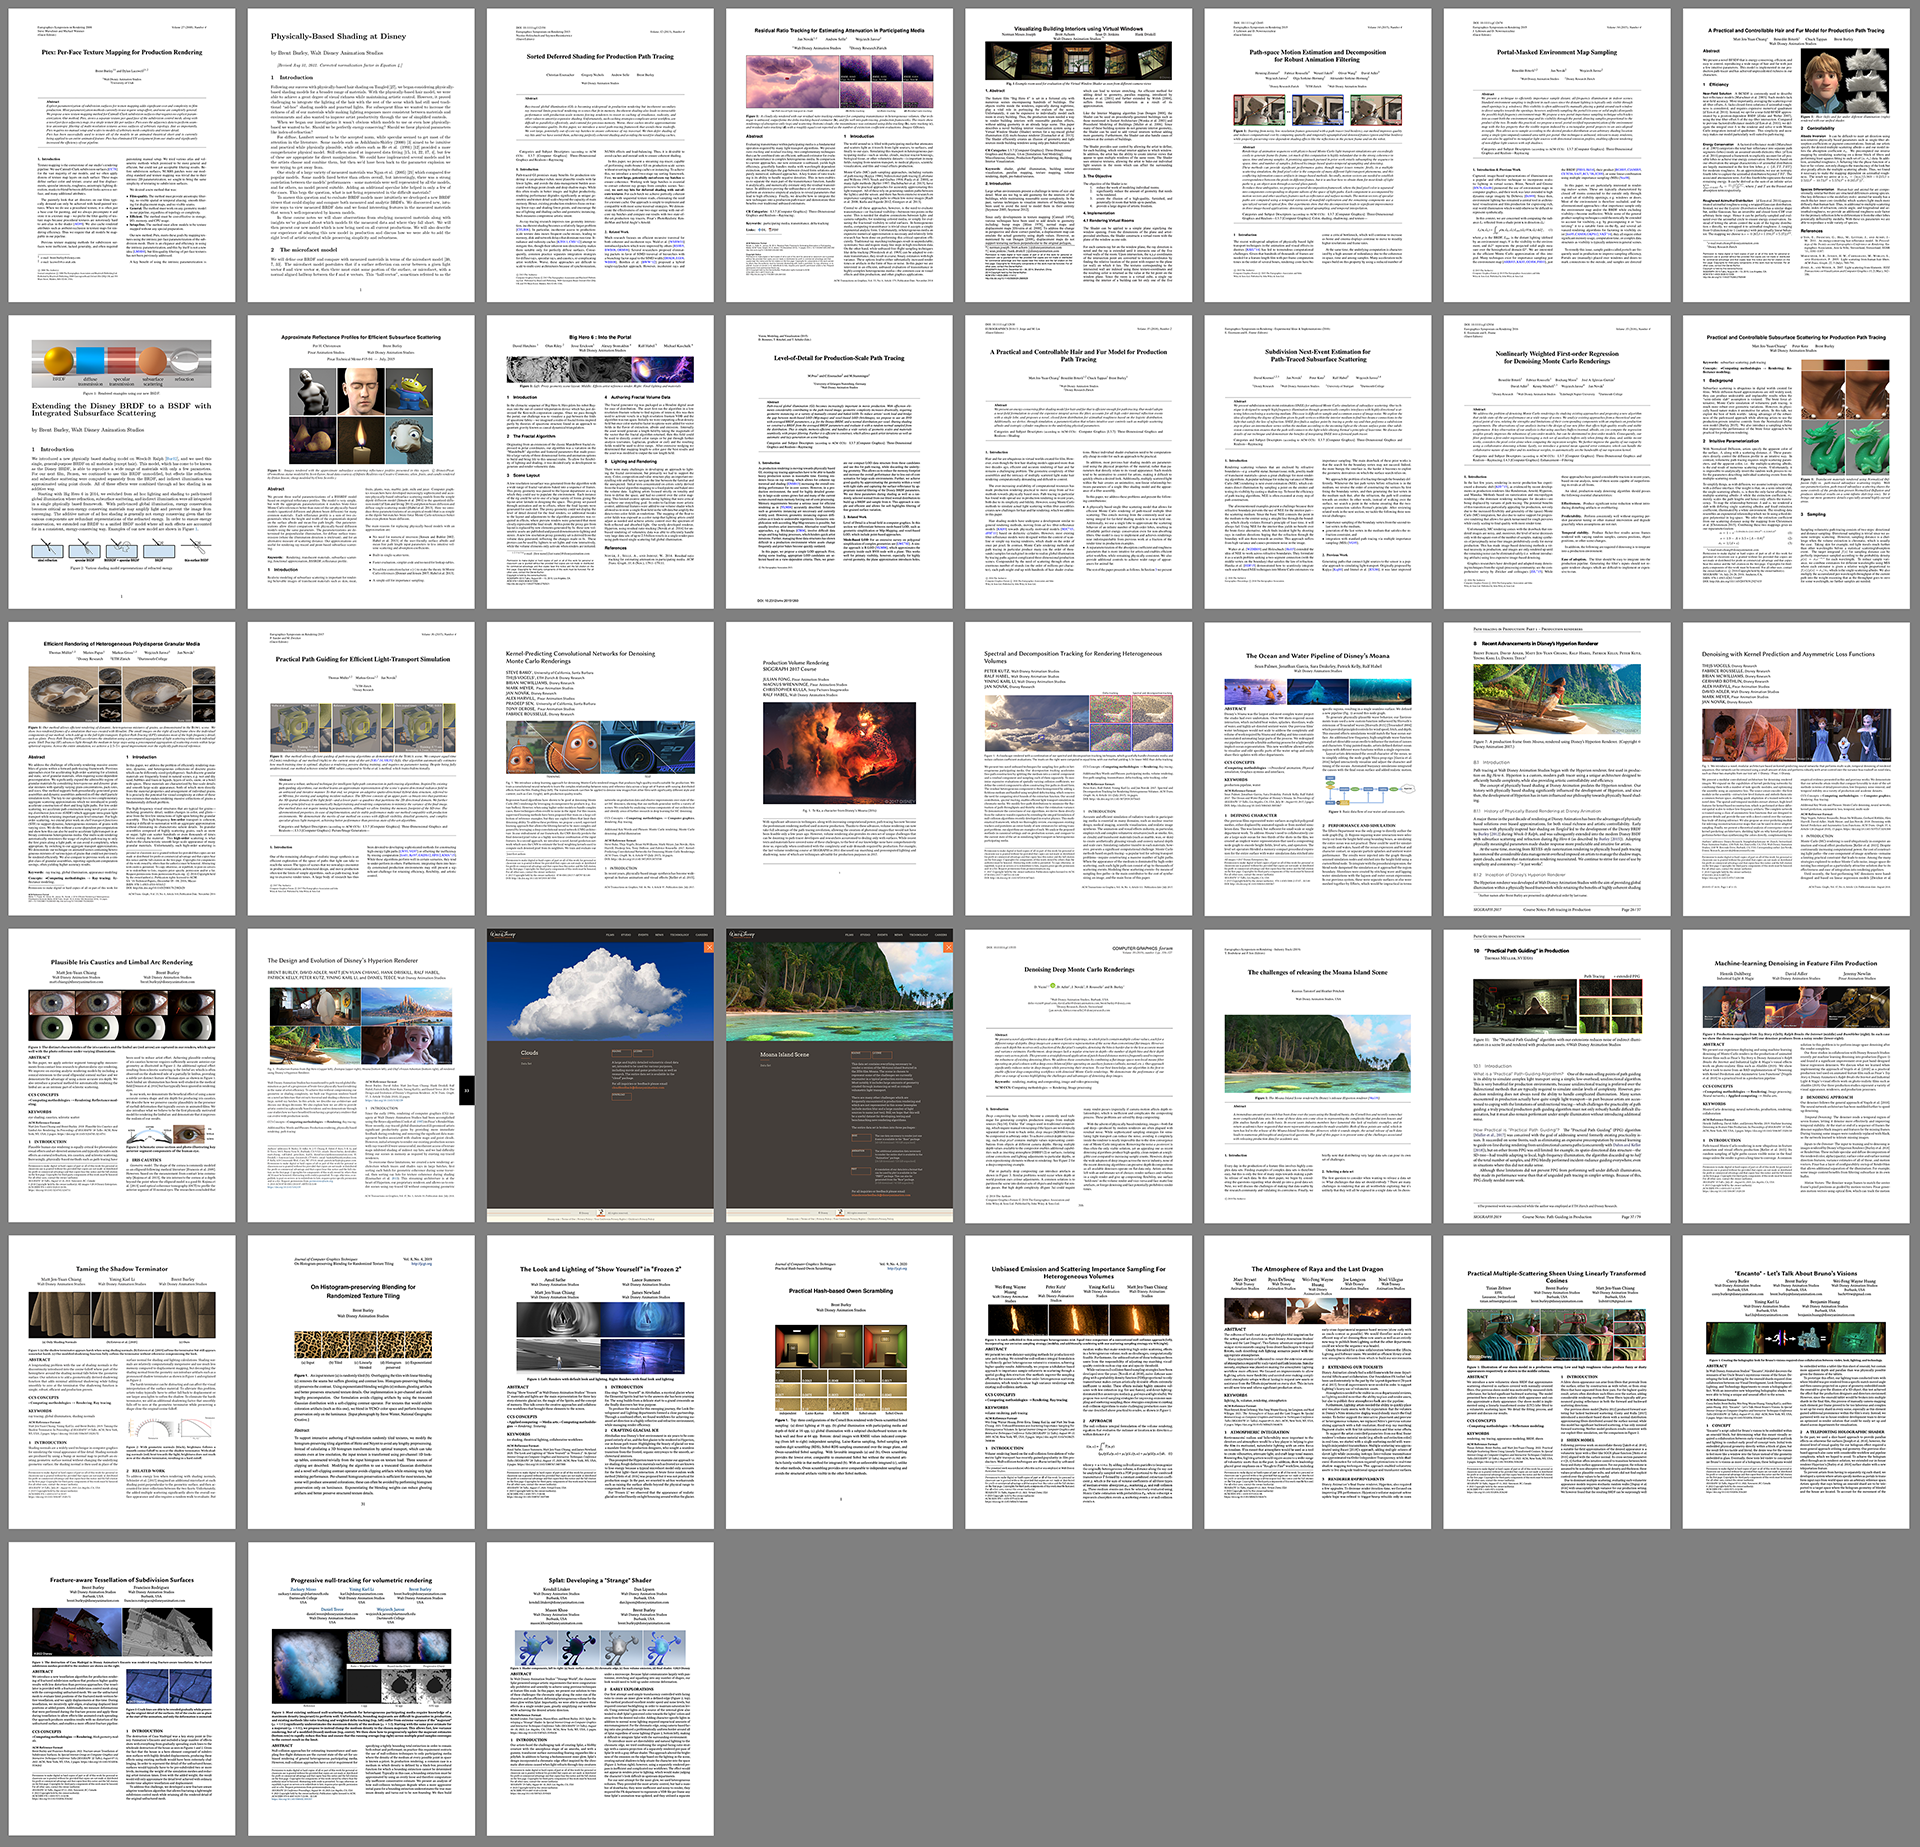
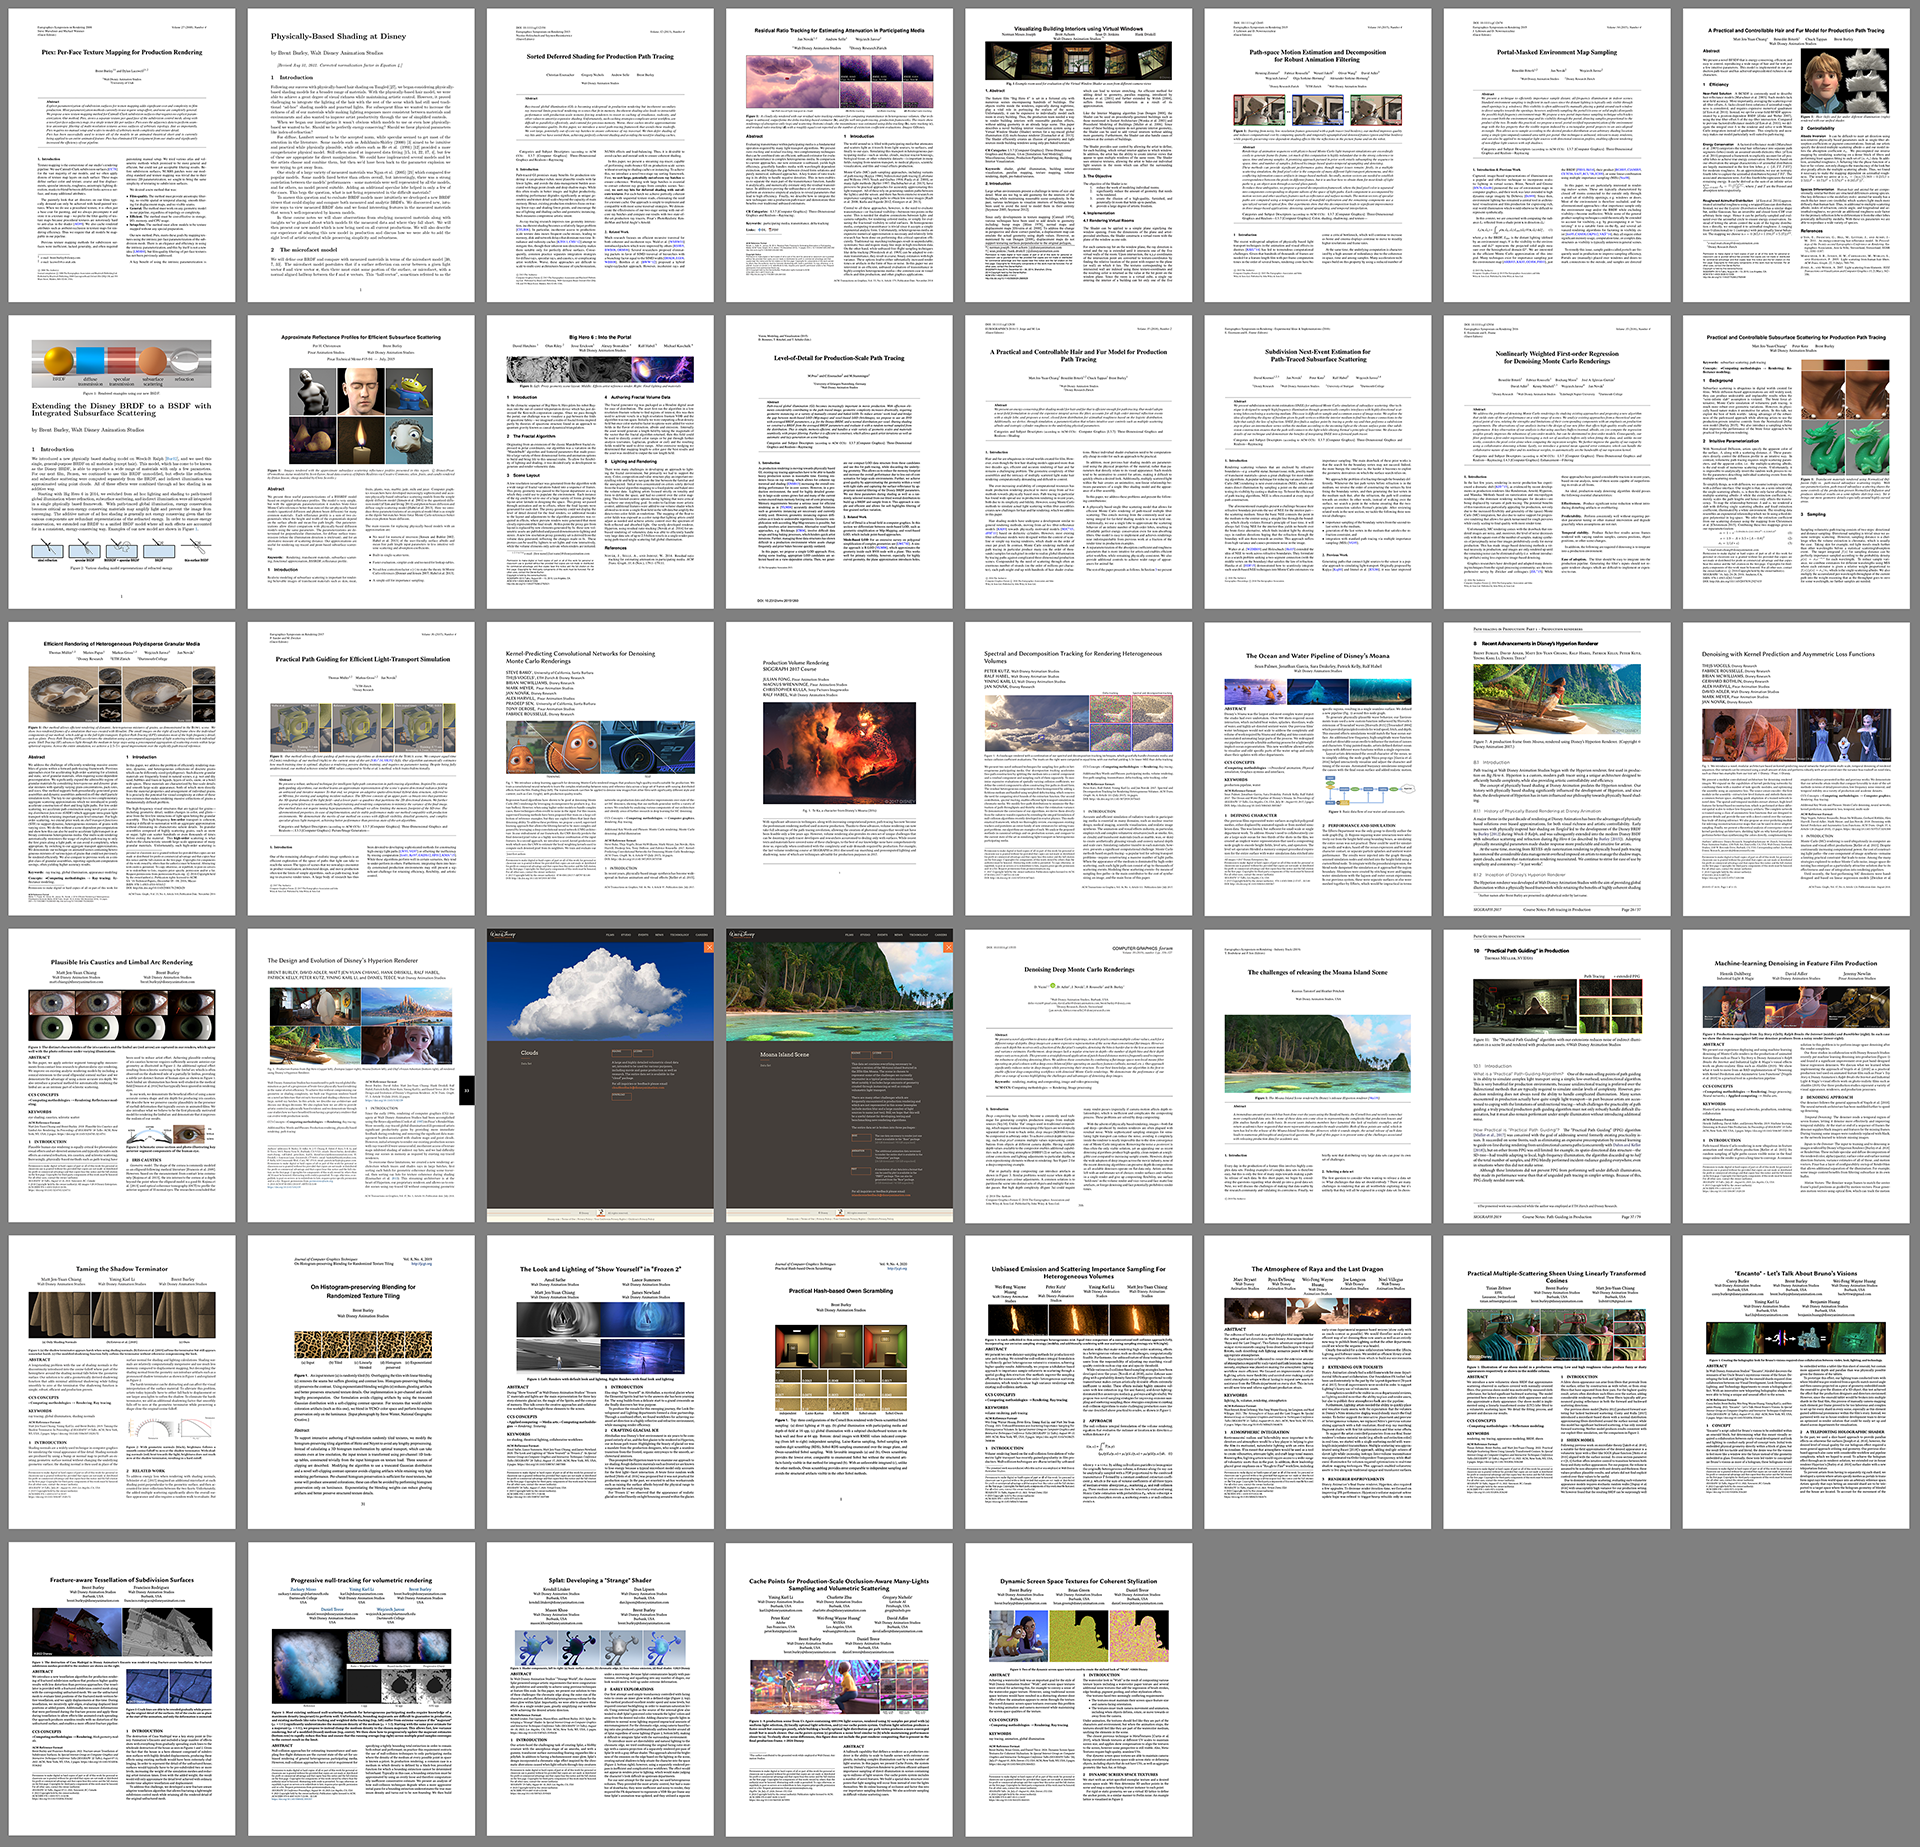
Update Hyperion papers post

Changed region(s): [[0.375, 0.8332, 0.625, 1.0]]

diff --git a/_posts/2019-07-30-hyperion-papers.md b/_posts/2019-07-30-hyperion-papers.md
@@ -18,7 +18,7 @@ Without a doubt, Hyperion, and by extension, our movies, would not be what they 
 Of course, we also collaborate closely with our sister rendering teams at [Pixar Animation Studios](https://www.pixar.com) and [Industrial Light & Magic](https://www.ilm.com) as well, and there are numerous examples where collaboration between all of these teams has advanced the state of the art in rendering for the whole industry.
 
 So without further ado, below are all of the papers that the Hyperion team has published or worked on or had involvement with over the years, either by ourselves or with our counterparts at Disney Research Studios, Pixar, ILM, and other research groups.
-If you've ever been curious to learn more about Disney's Hyperion Renderer, here are 43 publications with a combined 441 pages of material!
+If you've ever been curious to learn more about Disney's Hyperion Renderer, here are 45 publications with a combined 462 pages of material!
 For each paper, I'll link to a preprint version, link to the official publisher's version, and link any additional relevant resources for the paper.
 I'll also give the citation information, give a brief description, list the teams involved, and note how the paper is relevant to Hyperion.
 This post is meant to be a living document; I'll come back and update it down the line with future publications. Publications are listed in chronological order.
@@ -421,7 +421,7 @@ This post is meant to be a living document; I'll come back and update it down th
 
 42. **Progressive Null-Tracking for Volumetric Rendering**
 
-    [Zackary Misso](https://www.linkedin.com/in/zackary-misso/), [Yining Karl Li](https://www.yiningkarlli.com), [Brent Burley](https://www.linkedin.com/in/brent-burley-56972557/), [Daniel Teece](https://www.linkedin.com/in/daniel-teece-2650358/), and [Wojciech Jarosz](https://cs.dartmouth.edu/~wjarosz/index.html). Progressive Null Tracking for Volumetric Rendering. *SIGGRAPH '23: ACM SIGGRAPH 2023 Conference Proceedings*. Article 31, August 2023.
+    [Zackary Misso](https://www.linkedin.com/in/zackary-misso/), [Yining Karl Li](https://www.yiningkarlli.com), [Brent Burley](https://www.linkedin.com/in/brent-burley-56972557/), [Daniel Teece](https://www.linkedin.com/in/daniel-teece-2650358/), and [Wojciech Jarosz](https://cs.dartmouth.edu/~wjarosz/index.html). Progressive Null Tracking for Volumetric Rendering. *SIGGRAPH '23: ACM SIGGRAPH 2023 Conference Proceedings*, August 2023.
 
     * [Preprint Version](https://drive.google.com/file/d/11YsHMnJvUhINBpTabGFi48-j69A47Iw_/view?usp=sharing)
     * [Official Publisher's Version](http://doi.org/10.1145/3588432.3591557)
@@ -437,6 +437,26 @@ This post is meant to be a living document; I'll come back and update it down th
     * [Official Publisher's Version](https://doi.org/10.1145/3587421.3595424)
 
     Internal project from Disney Animation. This paper describes the unusual challenges encountered when developing the unique shading and look for the Splat character from *Strange World*.
+
+44. **Cache Points for Production-Scale Occlusion-Aware Many-Lights Sampling and Volumetric Scattering**
+
+    [Yining Karl Li](https://www.yiningkarlli.com), [Charlotte Zhu](https://www.linkedin.com/in/charizarrd), [Gregory Nichols](http://www.gregnichols.org/), [Peter Kutz](http://www.peterkutz.com/), [Wei-Feng Wayne Huang](http://rendering-memo.blogspot.com/), [David Adler](https://www.linkedin.com/in/david-adler-5ab7b21/s), [Brent Burley](https://www.linkedin.com/in/brent-burley-56972557/), and [Daniel Teece](https://www.linkedin.com/in/daniel-teece-2650358/). Cache Points for Production-Scale Occlusion-Aware Many-Lights Sampling and Volumetric Scattering. *DigiPro '24: Proceedings of the Digital Production Symposium 2024*, July 2024.
+
+    * [Preprint Version](https://drive.google.com/file/d/1oPTKFbx52H44-98og0-f0XKfQQxhyy3d/view?usp=share_link)
+    * [Official Publisher's Version](http://doi.org/10.1145/3665320.3670993)
+    * [Project Page](https://www.yiningkarlli.com/projects/cachepoints.html)
+
+    Internal project from Disney Animation. This paper describes Hyperion's unique many-lights importance sampling system. Used on every project rendered using Hyperion to date, this paper contains deep implementation details and notes from a decade of production experience.
+
+45. **Dynamic Screen Space Textures for Coherent Stylization**
+
+    [Brent Burley](https://www.linkedin.com/in/brent-burley-56972557/), [Brian Green](https://www.linkedin.com/in/brian-green-9b54956/), and [Daniel Teece](https://www.linkedin.com/in/daniel-teece-2650358/). Dynamic Screen Space Textures for Coherent Stylization. In  *ACM SIGGRAPH 2024 Talks*, July 2024.
+
+    * [Preprint Version](https://drive.google.com/file/d/1JyhFpy3D-EX6i5IG_o7FNx6Fx0To0qYU/view?usp=share_link)
+    * [Official Publisher's Version](https://doi.org/10.1145/3641233.3664321)
+
+    Internal project from Disney Animation. This paper describes a novel new dynamic screen space texturing system that makes up a key part of the stylized watercolor look of *Wish*.
+
 
 [![Figure 2: Hyperion logo, modeled by Disney Animation artist Chuck Tappan and rendered in Disney's Hyperion Renderer.]({{site.url}}/content/images/2019/Jul/hyperion_logo.png)]({{site.url}}/content/images/2019/Jul/hyperion_logo.png)
 
